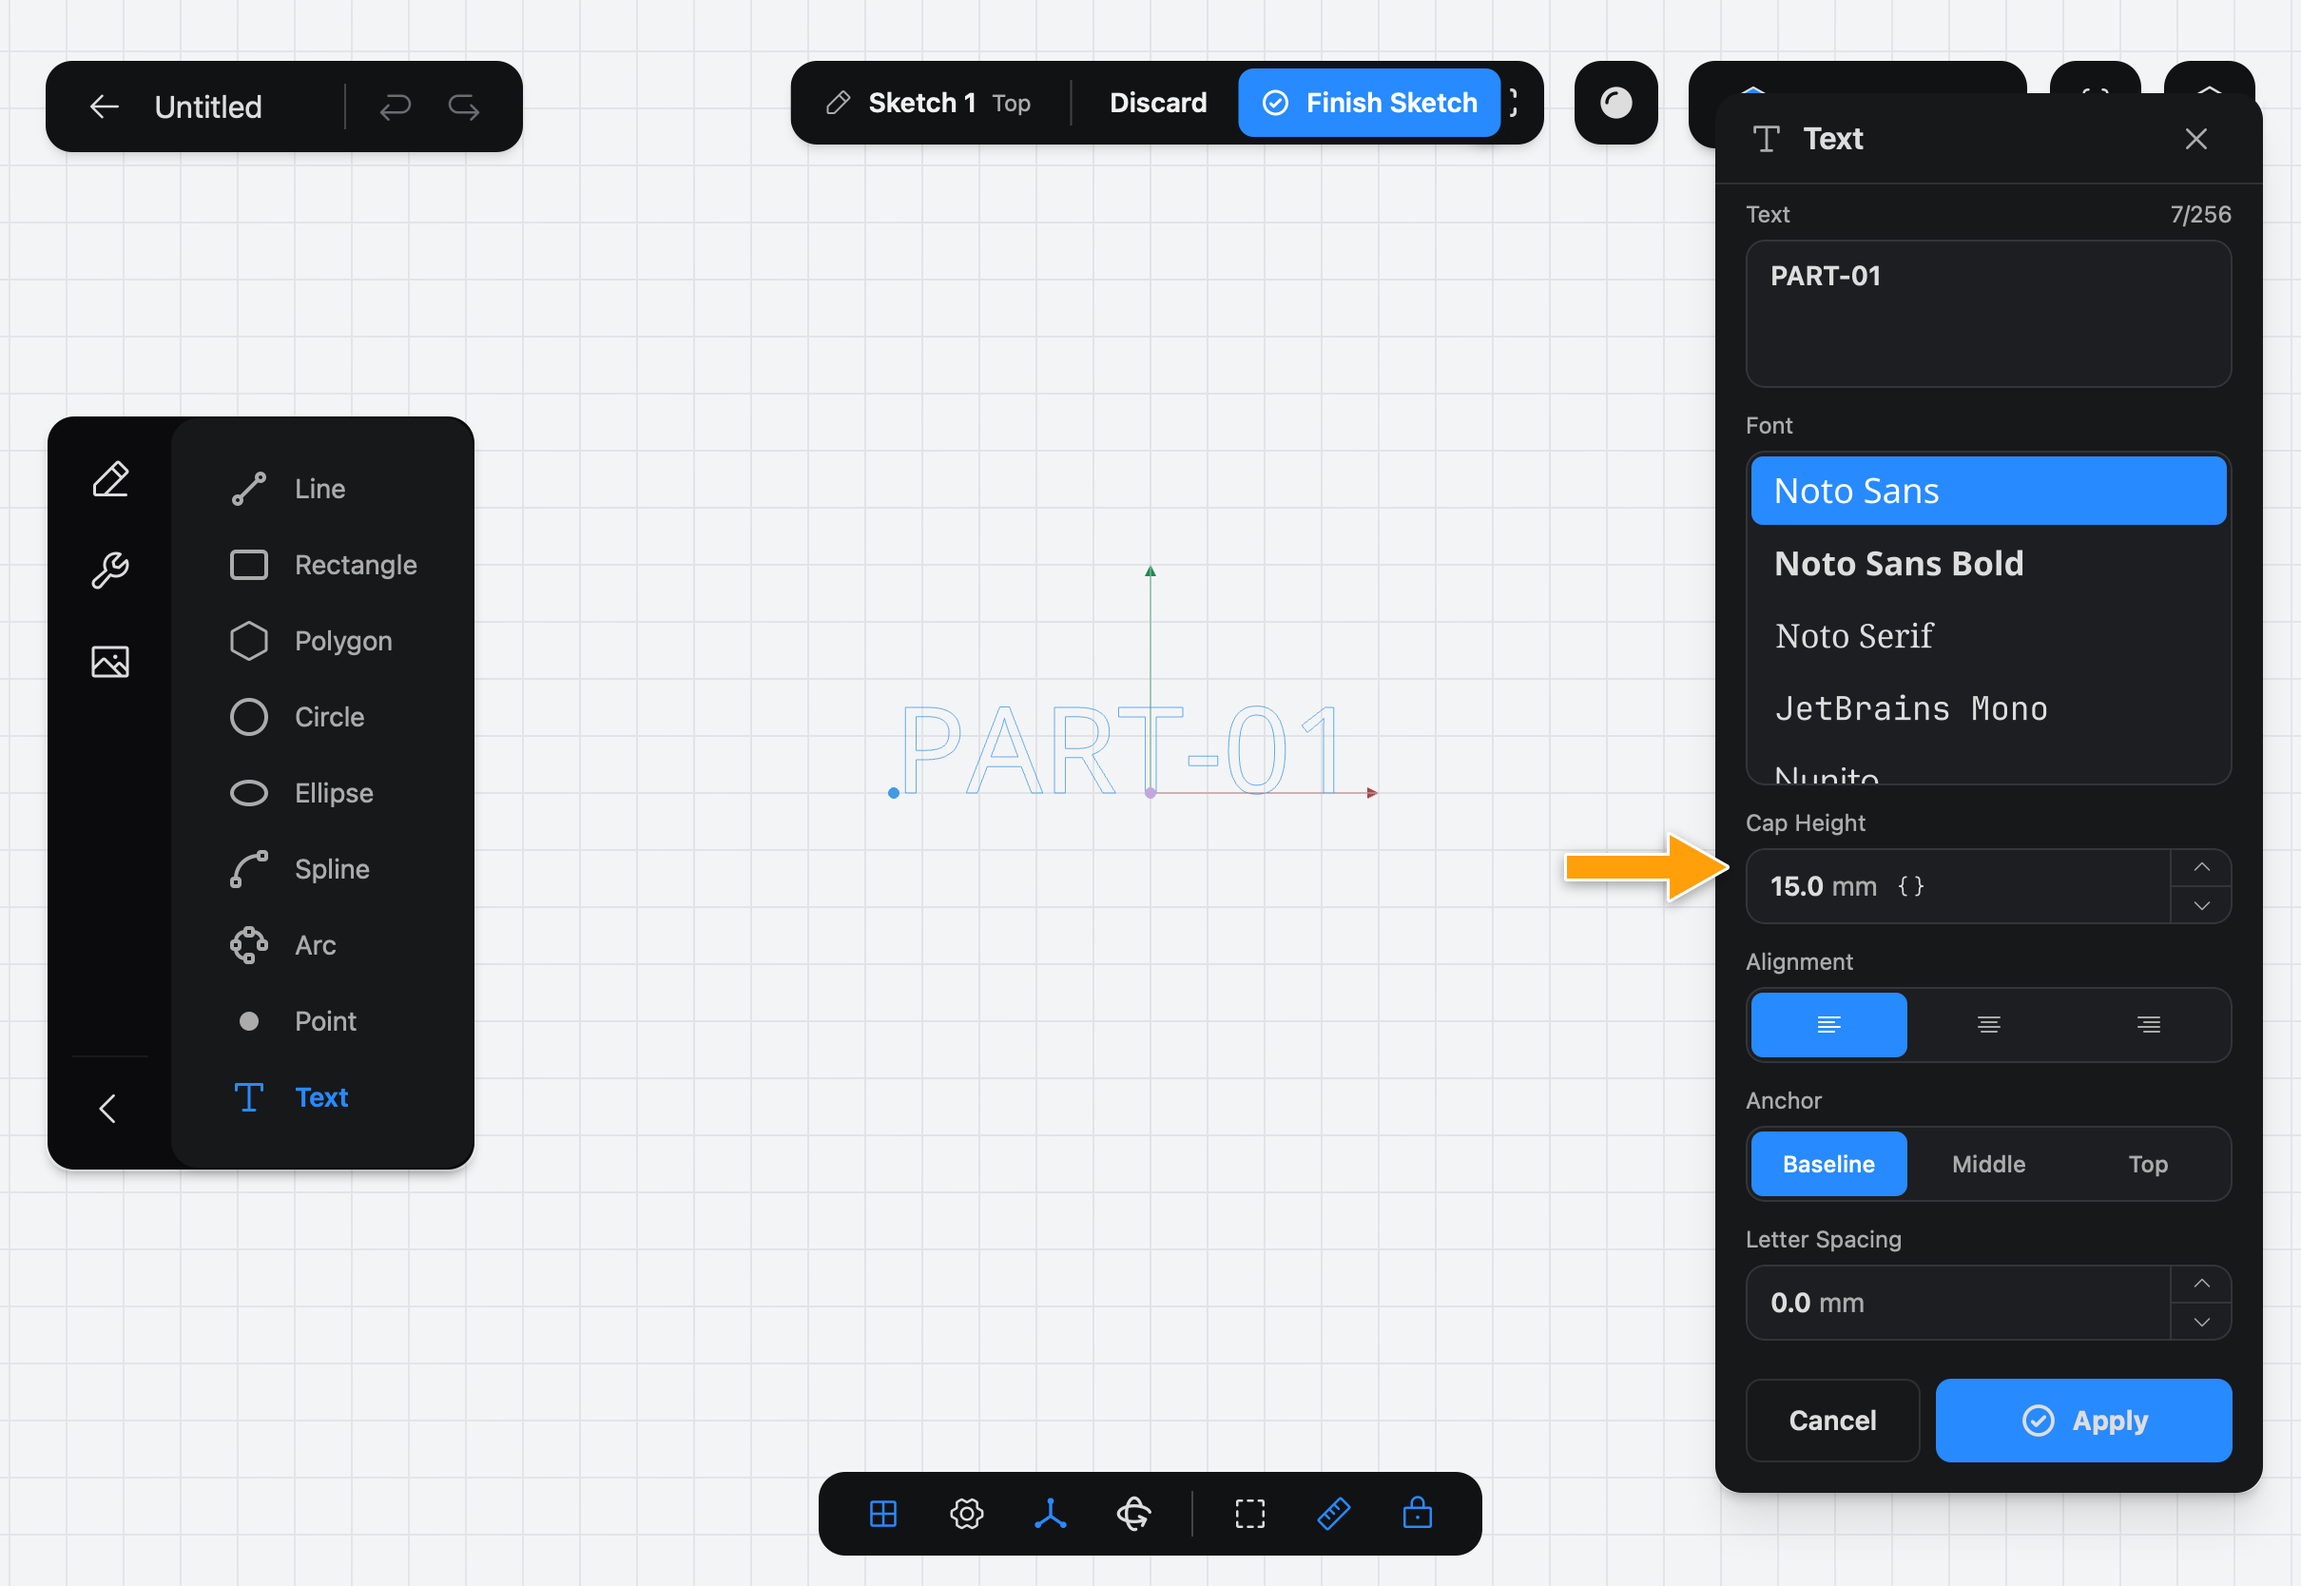
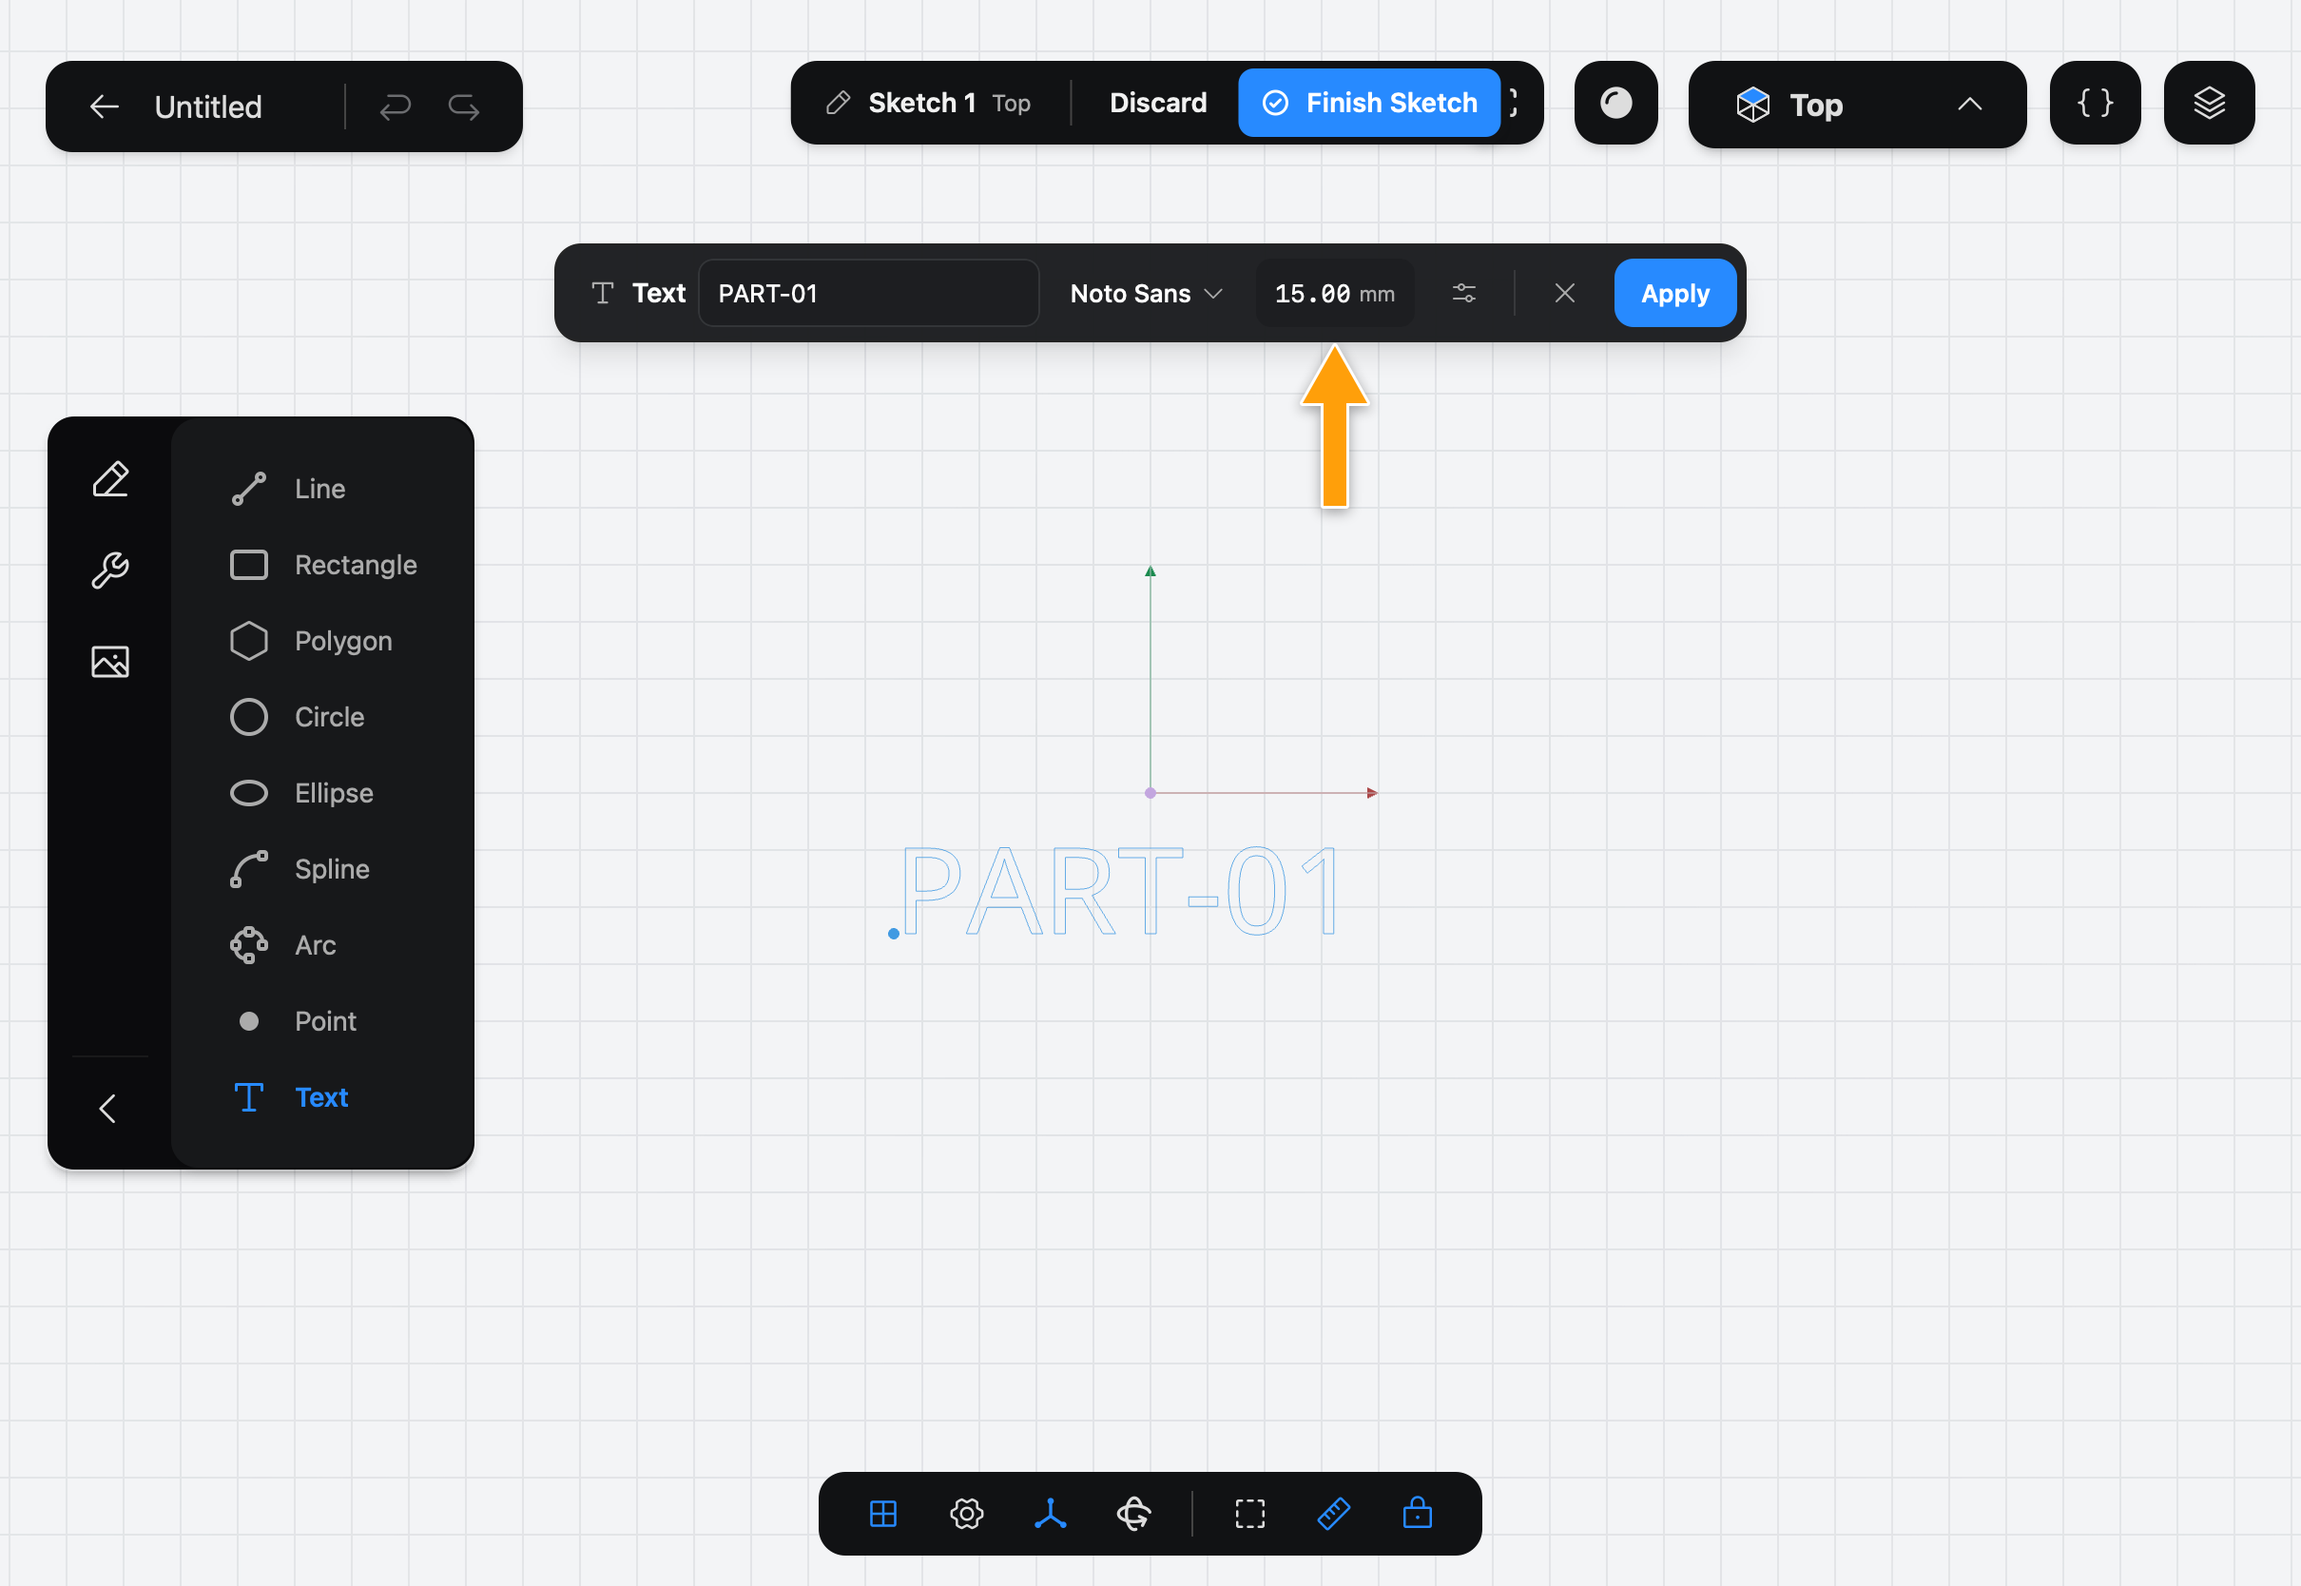
Text page: screenshots of the Text bar (field, Cap Height value, font menu, More strip, trash button, missing-glyph warning), and a picture of the More strip

Changed region(s): [[0.2169, 0.0624, 0.9917, 0.9664], [0.4339, 0.5612, 0.4649, 0.5923], [0.4339, 0.4676, 0.4649, 0.4988]]

diff --git a/04-sketching/text/index.md b/04-sketching/text/index.md
@@ -45,6 +45,8 @@ Use Text for part numbers, labels, name plates, signs, stamps and stencils. Text
 
 The next three are under **More**, the sliders button in the bar (on a narrow screen, Cap Height is there too):
 
+![The More strip under the Text bar](images/text-13-more.png)
+
 - **Alignment** puts the text to the right of the anchor (left-aligned), centered on it, or to its left (right-aligned).
 - **Anchor** sets what the anchor is level with: the **Baseline**, the **Middle** of the capitals, or their **Top**. To center text on a point, pick center alignment and **Middle**.
 - **Letter Spacing** adds space between the letters. It starts at 0.
